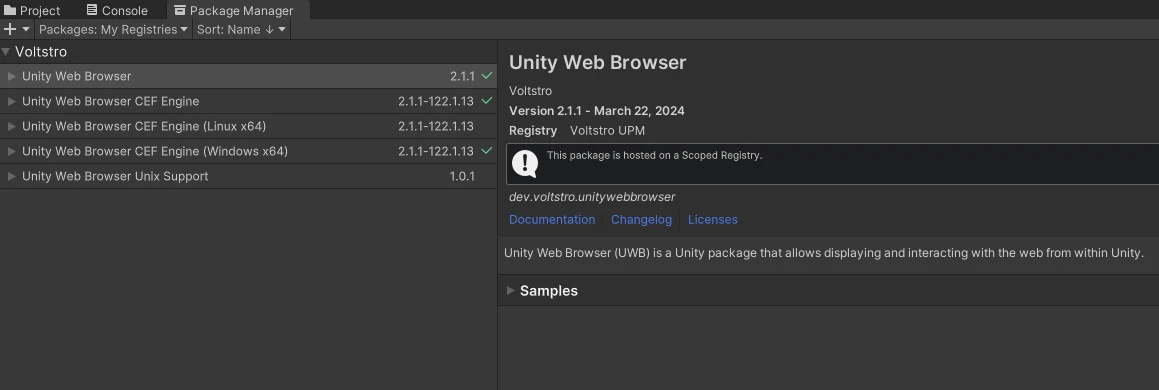
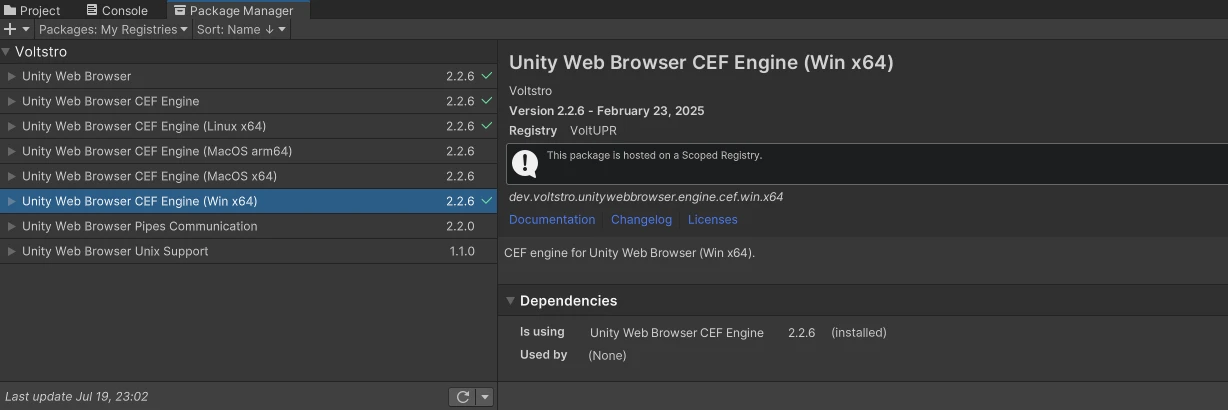
Update docs

diff --git a/docs/articles/user/setup.md b/docs/articles/user/setup.md
@@ -19,31 +19,31 @@ At a base level, UWB supports all major desktop platforms (Windows, Linux and Ma
 >
 > UWB does however support being code trimmed.
 
-## VoltUPM Setup
+## VoltUPR Setup
 
-VoltUPM is a Unity registry that we provide for hosting some of our packages, including all of UWB's packages. To use it, your project needs to be configured to use the VoltUPM registry.
+VoltUPR is a custom Unity registry that we provide for hosting some of our packages, including all of UWB's packages. To use it, your project needs to be configured to use the VoltUPR registry.
 
-To setup the registry with your project, [see here](https://github.com/Voltstro/VoltstroUPM#setup). The VoltUPM page also lists some other info that you may be interested in.
+To setup the registry with your project, [see here](https://upr.voltstro.dev/-/web/about). The VoltUPR page also lists some other info that you may be interested in.
 
 **HOWEVER**, an additional scope needs to be added. You need to make sure `com.cysharp.unitask` is added (more details are provided in the [UniTask part](#unitask)). Once you are done configuring your projects registries, your configuration should look like:
 
 ![Registry](~/assets/images/articles/user/setup/Registry.webp)
 
 > [!NOTE]
-> If you are using [UnityNuGet](https://github.com/xoofx/UnityNuGet), and you choose not to use VoltUPM as a `org.nuget.*` scope mirror, then don't have the `org.nuget` scope defined for VoltUPM.
+> If you are using [UnityNuGet](https://github.com/bdovaz/UnityNuGet) already, and you choose not to use VoltUPR as a `org.nuget.*` scope mirror, then don't have the `org.nuget` scope defined for VoltUPR.
 
 ### UniTask
 
-The reason why we need to add the additional `com.cysharp.unitask` scope to VoltUPM is because UWB depends on [UniTask](https://github.com/Cysharp/UniTask). VoltUPM does provide a mirror copy of UniTask (from OpenUPM),
+The reason why we need to add the additional `com.cysharp.unitask` scope to VoltUPR is because UWB depends on [UniTask](https://github.com/Cysharp/UniTask). VoltUPR does provide a mirror copy of UniTask (from OpenUPM),
 however you may already have UniTask installed either via [OpenUPM](https://openupm.com/packages/com.cysharp.unitask/), or via [Git](https://github.com/Cysharp/UniTask#install-via-git-url). If you do have it installed already,
-and you don't want to use VoltUPM's mirror of it, then DO NOT define the additional scope as apart of VoltUPM.
+and you don't want to use VoltUPR's mirror of it, then DO NOT define the additional scope as apart of VoltUPR.
 
 > [!WARNING]
 > If you already have UniTask installed via Git, please make sure it is the latest version!
 
 ## Packages Installation
 
-Once you have VoltUPM registry added to your project, you can install the packages via the Unity package manager GUI.
+Once you have VoltUPR registry added to your project, you can install the packages via the Unity package manager GUI.
 
 ![Packages](~/assets/images/articles/user/setup/Packages.webp)
 

diff --git a/docs/articles/dev/publishing.md b/docs/articles/dev/publishing.md
@@ -26,13 +26,13 @@ A PR to the `release` branch should be created. Follow standard PR review proces
 
 Once merged to the `release` branch, wait for CI to complete build. The CI will output the different packages compiled as artifacts. Downloads the artifacts as they will need to be pushed.
 
-## Push to VoltUPM
+## Push to VoltUPR
 
-Use npm to push to VoltUPM.
+Use npm to push to VoltUPR.
 
 > [!NOTE]
 > 
-> Cloudflare does not allow uploads of 100MB or larger. Some packages are larger. Add VoltUPM's server ip to `/etc/hosts`, then push. Ensure VoltUPM's server firewall has whitelisted IP from where push will be done.
+> Cloudflare does not allow uploads of 100MB or larger. Some packages are larger. Add VoltUPR's server ip to `/etc/hosts`, then push. Ensure VoltUPR's server firewall has whitelisted IP from where push will be done.
 
 ## Git Tagging
 

diff --git a/README.md b/README.md
@@ -29,8 +29,8 @@ Unity 2021.3.x
 
 ### Install
 
-1. Setup [VoltUPM](https://github.com/Voltstro/VoltstroUPM#setup)
-2. Define the additional scopes `org.nuget` and `com.cysharp.unitask` with VoltUPM
+1. Setup [VoltUPR](https://upr.voltstro.dev/-/web/about)
+2. Define the additional scopes `org.nuget` and `com.cysharp.unitask` with VoltUPR
 3. Install UnityWebBrowser packages
 
 For a more in-depth installation guide, check out the [setup article](https://projects.voltstro.dev/UnityWebBrowser/latest/articles/user/setup/).

diff --git a/src/Packages/UnityWebBrowser/README.md b/src/Packages/UnityWebBrowser/README.md
@@ -27,8 +27,8 @@ Unity 2021.3.x
 
 ### Install
 
-1. Setup [VoltUPM](https://github.com/Voltstro/VoltstroUPM#setup)
-2. Define the additional scopes `org.nuget` and `com.cysharp.unitask` with VoltUPM
+1. Setup [VoltUPR](https://upr.voltstro.dev/-/web/about)
+2. Define the additional scopes `org.nuget` and `com.cysharp.unitask` with VoltUPR
 3. Install UnityWebBrowser packages
 
 For a more in-depth installation guide, check out the [setup article](https://projects.voltstro.dev/UnityWebBrowser/latest/articles/user/setup/).

diff --git a/CHANGELOG.md b/CHANGELOG.md
@@ -4,6 +4,17 @@ All notable changes to this project will be documented in this file.
 The format is based on [Keep a Changelog](https://keepachangelog.com/en/1.0.0/),
 and this project adheres to [Semantic Versioning](https://semver.org/spec/v2.0.0.html).
 
+## [2.2.7] - 2025-07-19
+
+### Changed
+
+- Update CEF to 137.0.19
+- Bump deps
+
+### Fixed
+
+- Fix not all code paths return a value (#400)
+- Fix some key events not working (#412)
 
 ## [2.2.6] - 2025-02-23
 
